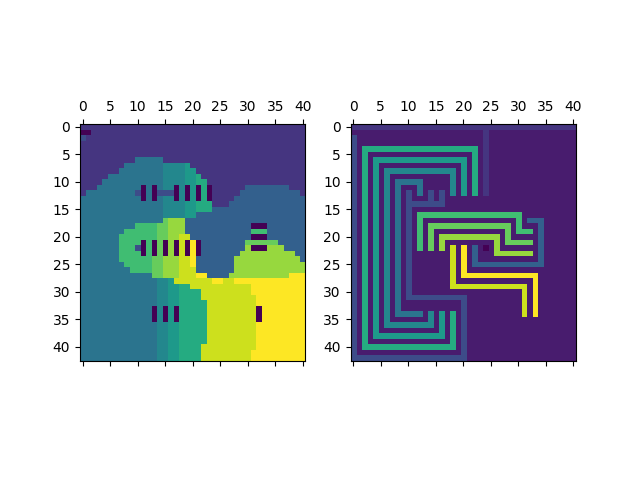
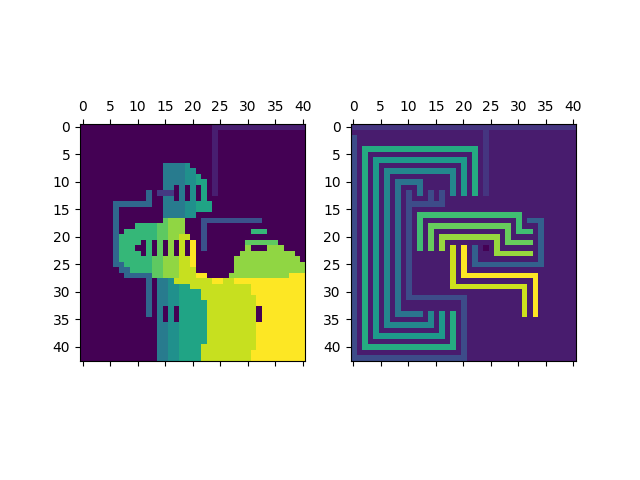
dijkstra is back

Changed region(s): [[0.125, 0.25, 0.5, 0.75]]

diff --git a/frouting/evolution.py b/frouting/evolution.py
@@ -212,6 +212,61 @@ def group_nodes_in_regions(layout, nodes):
     return regions
 
 
+
+
+def search_solution(layout, target, target_nodes):
+    import pathfinding
+
+    def get_left_node(data, node, target):
+        i, j = node
+        j -= 1
+        return (i, j) if (j >= 0) and (data[i][j] == target) else None
+
+    def get_top_node(data, node, target):
+        i, j = node
+        i -= 1
+        return (i, j) if (i >= 0) and (data[i][j] == target) else None
+
+    mdata, rows, cols = layout
+
+    # assume target zone is connected
+    vertices = []
+    edges = []
+    for i, row in enumerate(mdata):
+        for j, value in enumerate(row):
+            node = (i, j)
+            if value == target:
+                vertices.append(node)
+                left_node = get_left_node(mdata, node, target)
+                if left_node is not None:
+                    edges.append( (left_node, node, 1) )
+                top_node = get_top_node(mdata, node, target)
+                if top_node is not None:
+                    edges.append( (top_node, node, 1) )
+
+
+    g = pathfinding.GraphUndirectedWeighted( len(vertices) )
+    for edge in edges:
+        left, right, dist = edge
+        g.add_edge( vertices.index(left), vertices.index(right), dist )
+        g.add_edge( vertices.index(right), vertices.index(left), dist )
+
+    t_nodes = target_nodes[target]
+    for left, right in zip(t_nodes[:-1], t_nodes[1:]):    
+        path, distance = pathfinding.dijkstra(g, vertices.index(left), vertices.index(right))
+        if distance == float('inf'):
+            print('no route found for target', target, ', nodes', left, right)
+        else:
+            for ndx, node in enumerate(vertices):
+                i, j = node
+                if ndx in path:
+                    mdata[i][j] = target
+                else:
+                    mdata[i][j] = 0
+
+    return mdata
+
+
 def evolve(layout, target_nodes):
     data, rows, cols = layout
 
@@ -222,18 +277,30 @@ def evolve(layout, target_nodes):
             node = (i, j)
             if value == 0:
                 nt_val, dist = nearest_target(node, target_nodes)
-                nbs = set(boxed_labels(layout, node)) - {0, WALL_MARK}
+                nbs = set(boxed_labels(layout, node)) - {0, TEMP_WALL_MARK, WALL_MARK}
                 if len(nbs) > 1:
-                    updates[node].append( WALL_MARK )
-                    pass
+                    updates[node].append( TEMP_WALL_MARK )
                 else:
                     updates[node].append( nt_val )
+
 
     # perform updates
     mdata = copy.deepcopy(data)
     for node, update in updates.items():
         i, j = node
         mdata[i][j] = update.pop()
+
+
+    for target in [1, 2, 3, 4, 5]:
+        mlayout = (mdata, rows, cols)
+        mdata = search_solution(mlayout, target, target_nodes)
+
+
+    for i, row in enumerate(mdata):
+        for j, value in enumerate(row):
+            node = (i, j)
+            if value == TEMP_WALL_MARK:
+                mdata[i][j] = 0
 
     return mdata
 
@@ -259,6 +326,7 @@ def evolve_back(layout, target_nodes):
 
 
 WALL_MARK = -1
+TEMP_WALL_MARK = -2
 
 def main():
 
